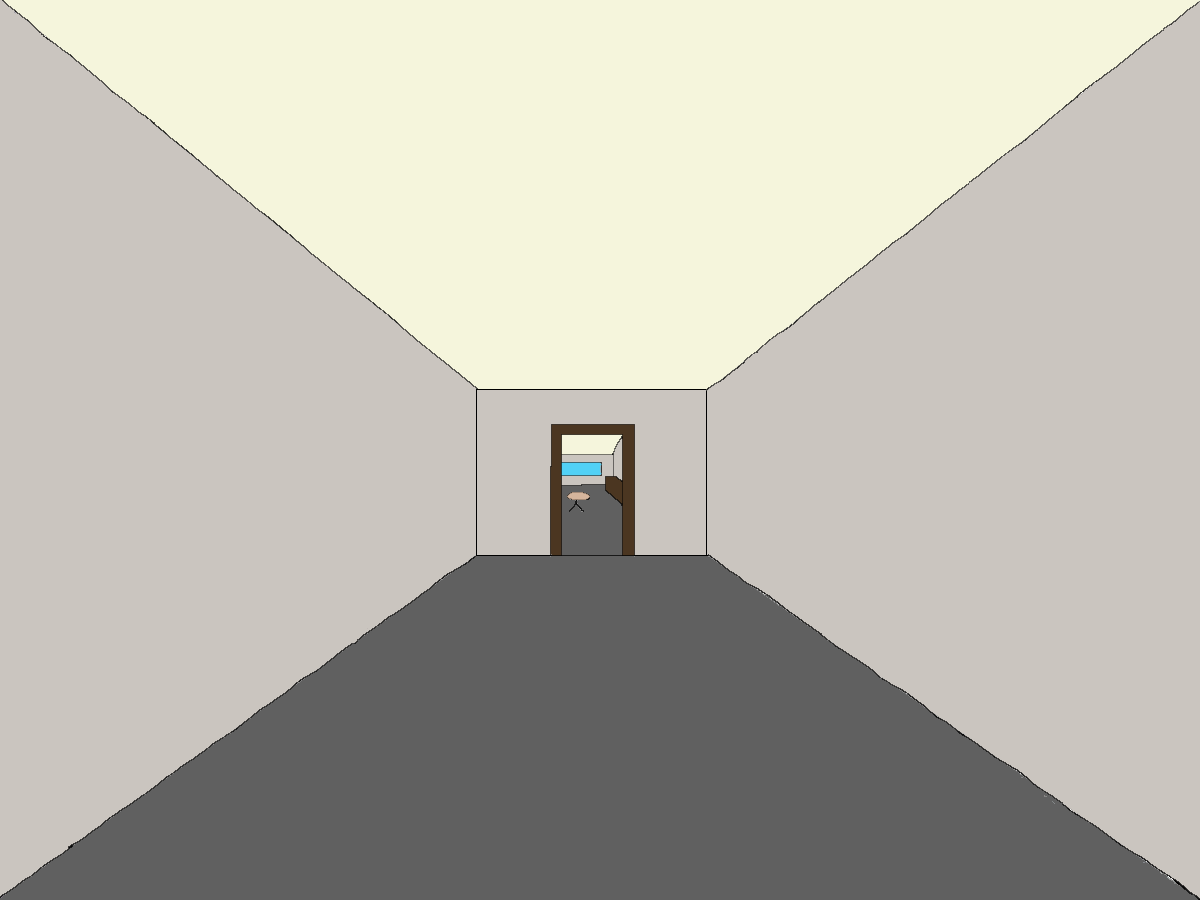
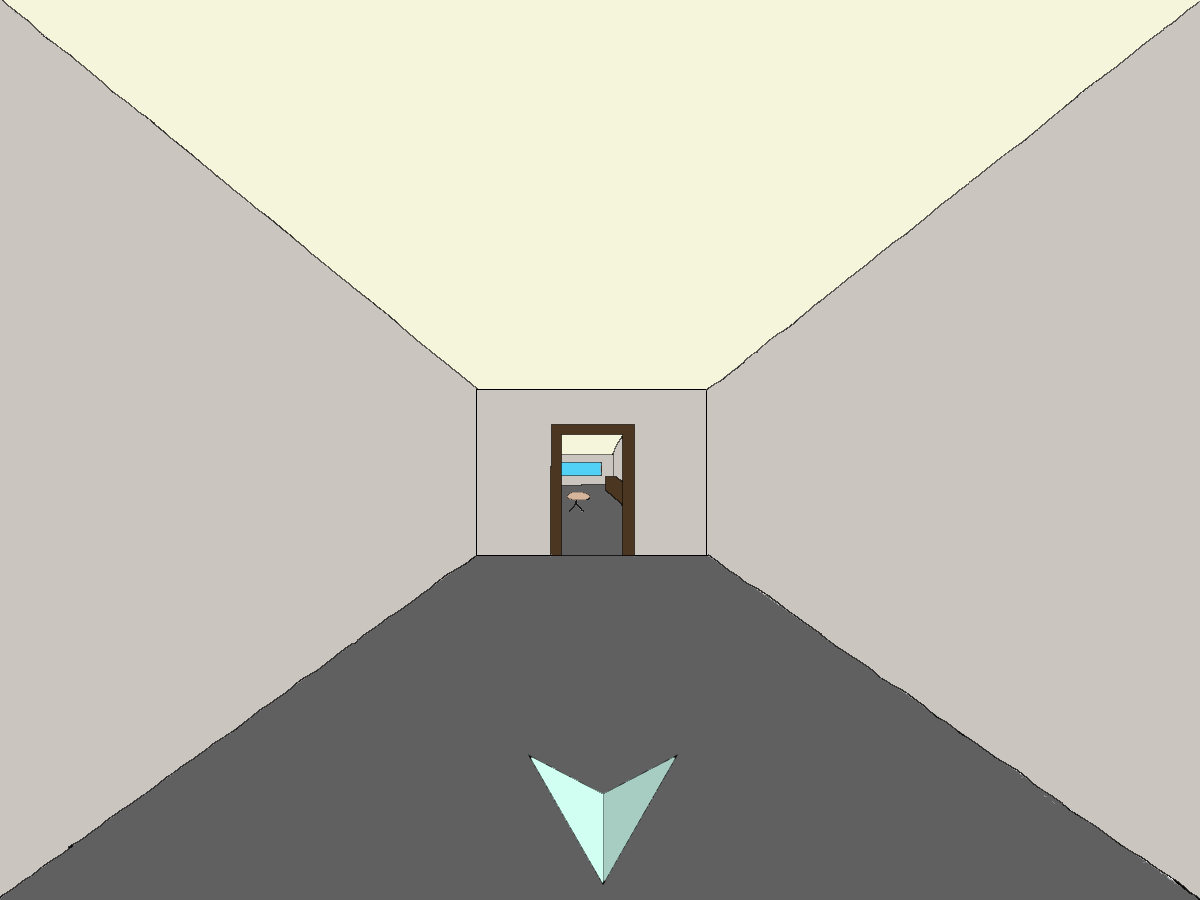
Añadidas las flechas de retorno

Changed region(s): [[0.4317, 0.84, 0.555, 0.9956]]

diff --git a/main.js b/main.js
@@ -1,7 +1,55 @@
 import { Juego } from "./scripts/juego.js";
-import { Area, Escena, ManejadorDeDialogos, ManejadorDeEscenas, ManejadorDeItems, Item, Objeto } from "./scripts/utilidades.js";
+import { Area, Escena, ManejadorDeDialogos, ManejadorDeEscenas, ManejadorDeItems, ManejadorDeFlags, Item, Objeto, Flag } from "./scripts/utilidades.js";
 import { Dialogo } from "./scripts/visual.js";
 
 let juego = new Juego(1200, 900);
+
+let area = new Area(437, 333, 633, 734);
+let objeto1 = new Objeto(area, juego, 
+    function() {
+        let flag = juego.manejadorDeFlags.getFlag(0);
+        if (flag.activa) {
+            let dialogo = juego.manejadorDeDialogos.getDialogo(1);
+            dialogo.mostrar();
+            flag.desactivar();
+        } else {
+            let llave = juego.manejadorDeItems.getItem(0);
+            juego.jugador.añadirItem(llave);
+        }
+    }
+);
+
+let objeto2 = new Objeto(new Area(874, 340, 1084, 700), juego, 
+    function() {
+        juego.manejadorDeEscenas.cambiarEscena(1);
+    }
+)
+
+let escena1 = new Escena(0, "./imagenes/escenas/sala-principal-dia.png", [objeto1, objeto2]);
+let escena2 = new Escena(1, "./imagenes/escenas/habitacion-2-dia.png", [objeto1]);
+let manejadorDeEscenas = new ManejadorDeEscenas([escena1, escena2]);
+juego.manejadorDeEscenas = manejadorDeEscenas;
+
+let dialogo1 = new Dialogo(["hola", "hola 2", "hola 3"]);
+let dialogo2 = new Dialogo(["El ascensor no funciona.", "Parece que no funciona..."], "Recepcionista");
+let arrayDialogos = [dialogo1, dialogo2];
+let manejadorDeDialogos = new ManejadorDeDialogos(arrayDialogos);
+juego.manejadorDeDialogos = manejadorDeDialogos;
+
+
+let flag1 = new Flag(0, true); // Si esta activada, el dialogo salta. Esta flag es para que no salte mas dialogo del ascensor
+let flag2 = new Flag(1);
+let manejadorDeFlags = new ManejadorDeFlags([flag1, flag2]);
+juego.manejadorDeFlags = manejadorDeFlags;
+
+juego.manejadorDeItems = new ManejadorDeItems(
+    [
+        new Item(0, "./imagenes/graficos/llave.png"),
+        new Item(1, "./imagenes/graficos/gafas.png"),
+        new Item(2, "./imagenes/graficos/caja.png"),
+        new Item(3, "./imagenes/graficos/movil.png"),
+        new Item(4, "./imagenes/graficos/hoja-contras.png")
+    ]
+);
 
 juego.empezar();
